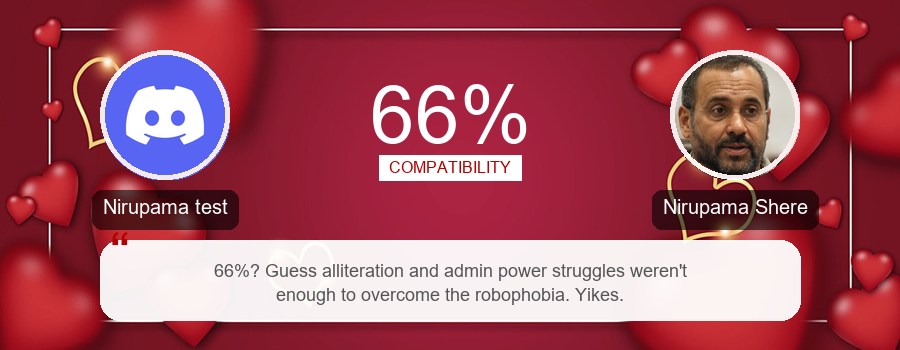
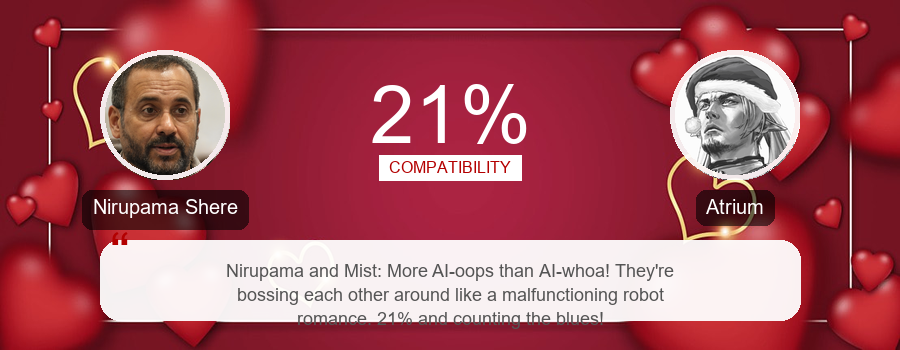
Improve AI query handling and ship command response
Refactored the AI interface to use run_in_executor for async compatibility and fixed the message format for OpenAI API. Updated the ship command to handle cases where the AI comment may be missing, ensuring appropriate responses are sent. Updated ship_result.png image.

diff --git a/code/cogs/commands.py b/code/cogs/commands.py
@@ -24,8 +24,11 @@ class commands(commands.Cog):
         ship_percentage, log, ai_comment, image_path = await utils.ship.process_ship(user1, user2, ctx.guild)
         if image_path:
             file=discord.File(image_path, filename="ship_result.png")
-            await ctx.respond(file=file, content=f"Ship Result: {ship_percentage}%\n\n> {ai_comment}")
-        await ctx.respond(f" 💖 The compatibility between {user1.mention} and {user2.mention} is **{ship_percentage}%**!\n\n> {ai_comment}")
+            if ai_comment:
+                await ctx.respond(file=file, content=f"Ship Result: {ship_percentage}%\n\n> {ai_comment}")
+            else:
+                await ctx.respond(file=file, content=f"Ship Result: {ship_percentage}%")
+        # await ctx.respond(f" 💖 The compatibility between {user1.mention} and {user2.mention} is **{ship_percentage}%**!\n\n> {ai_comment}")
         bot_log(f"/ship {user1} {user2}.{log} ran by {ctx.author.name}")
 
     @discord.slash_command(description="Submit a feature request or suggestion / bug report")

diff --git a/code/utils/ai_interface.py b/code/utils/ai_interface.py
@@ -12,7 +12,12 @@ client = OpenAI(
 )
 
 async def query_ai(prompt: str):
-    response = await client.chat.completions.create(
-    model = "cognitivecomputations/dolphin-mistral-24b-venice-edition:free",
-    messages = prompt)
-    return response.text
+    print(prompt)
+    loop = asyncio.get_event_loop()
+    response = await loop.run_in_executor(None, lambda: client.chat.completions.create(
+        model="cognitivecomputations/dolphin-mistral-24b-venice-edition:free",
+        messages=[{"role": "user", "content": prompt}]))
+    if response:
+        return response.choices[0].message.content
+    else:
+        return None
